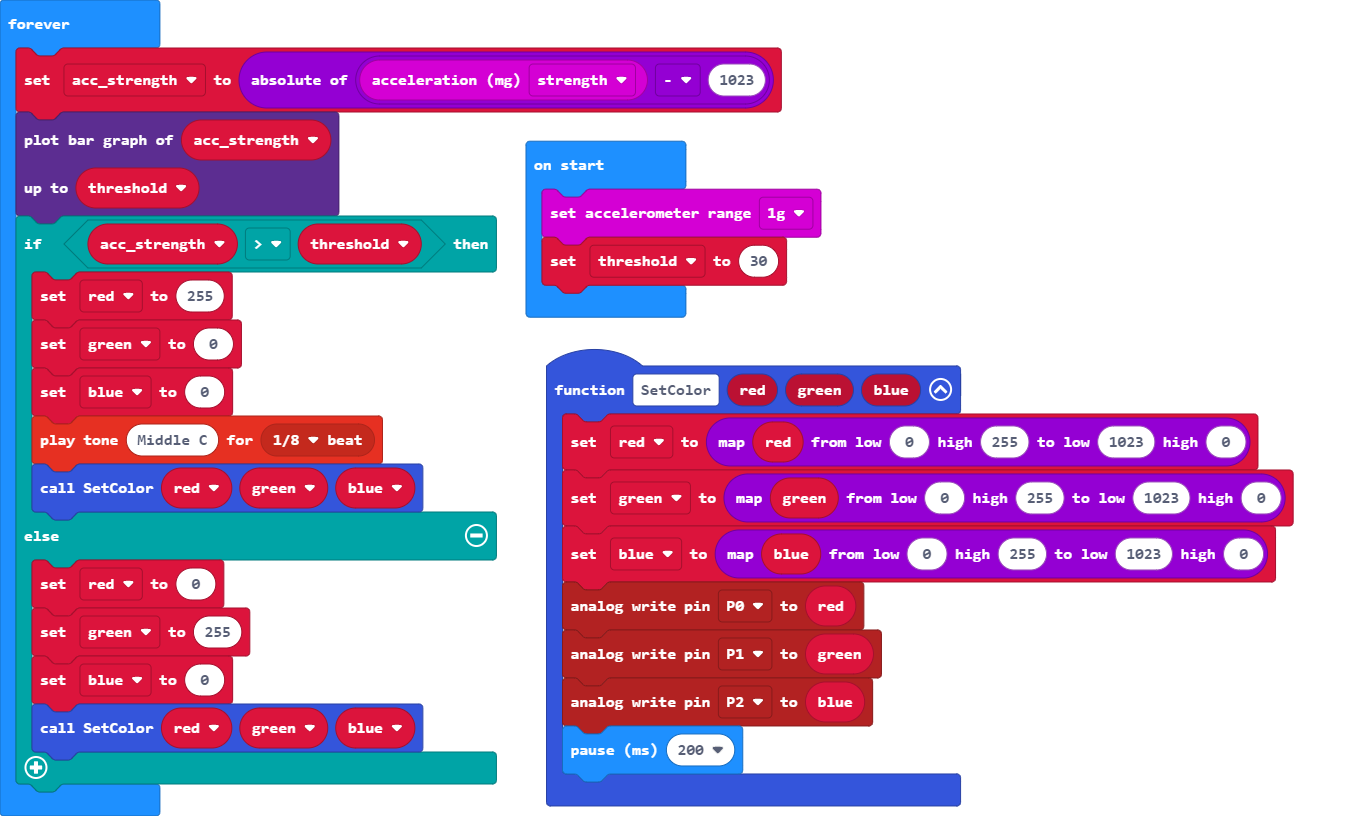
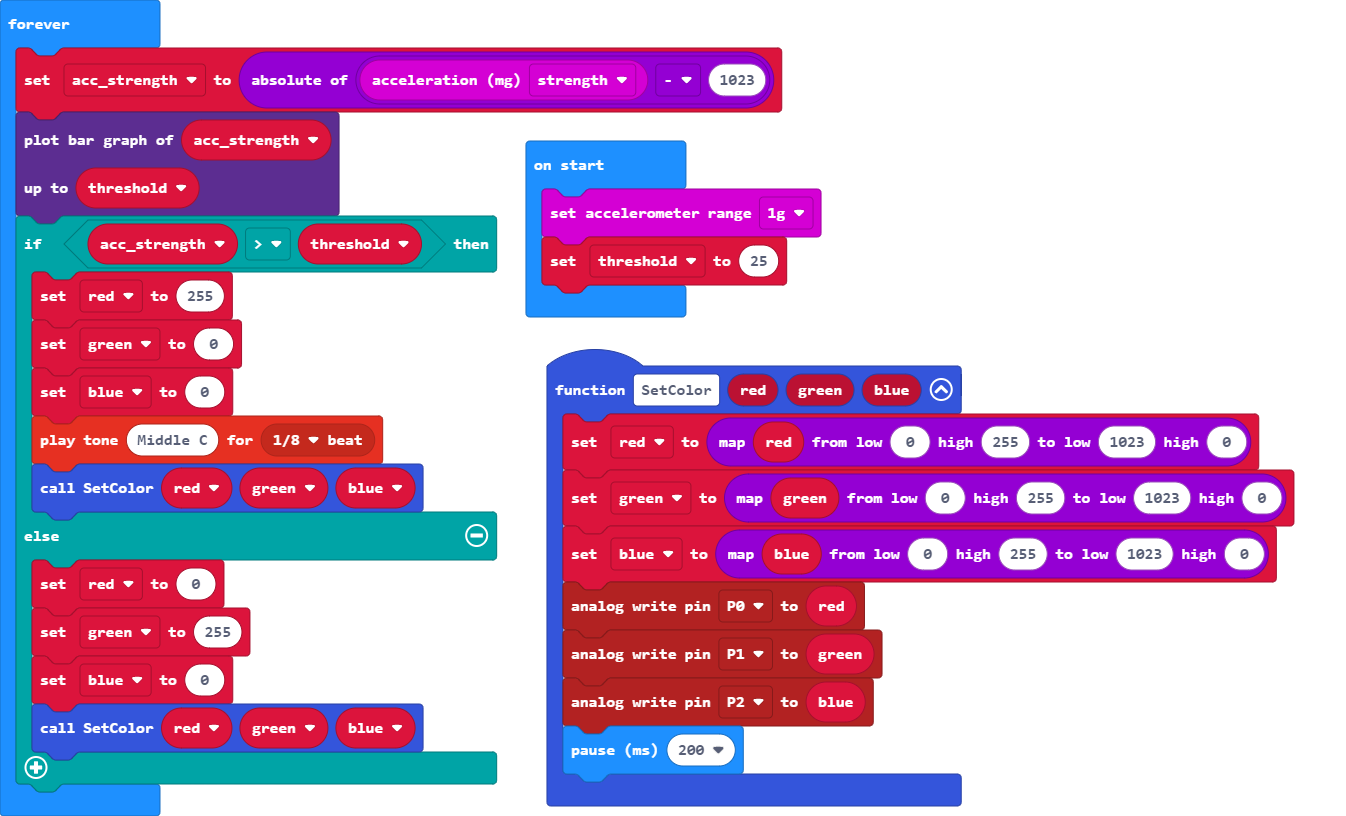
Update main.blocks, main.ts

diff --git a/main.ts b/main.ts
@@ -12,7 +12,7 @@ let blue = 0
 let green = 0
 let red = 0
 input.setAccelerometerRange(AcceleratorRange.OneG)
-let threshold = 30
+let threshold = 25
 basic.forever(function () {
     acc_strength = Math.abs(input.acceleration(Dimension.Strength) - 1023)
     led.plotBarGraph(
